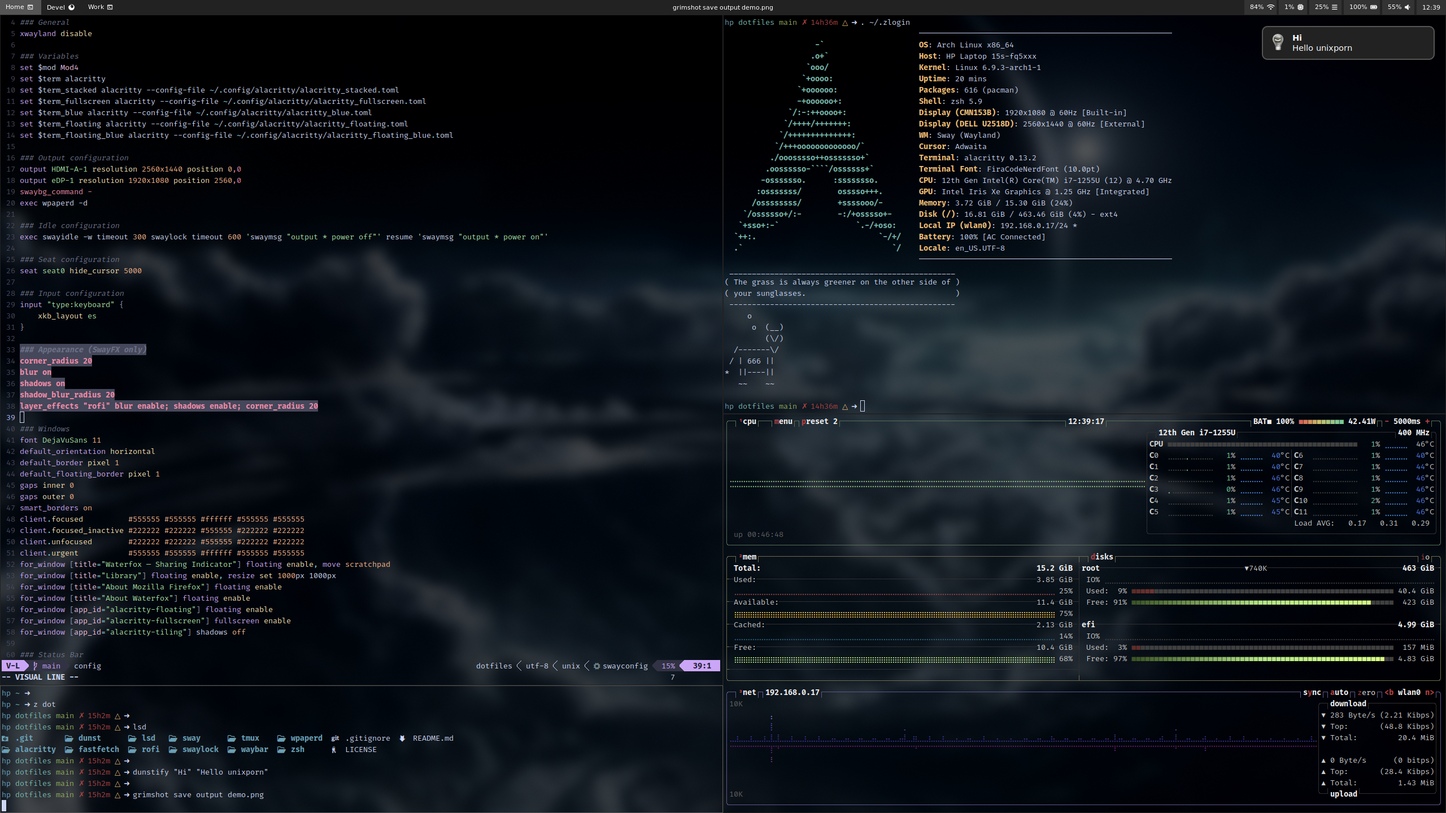
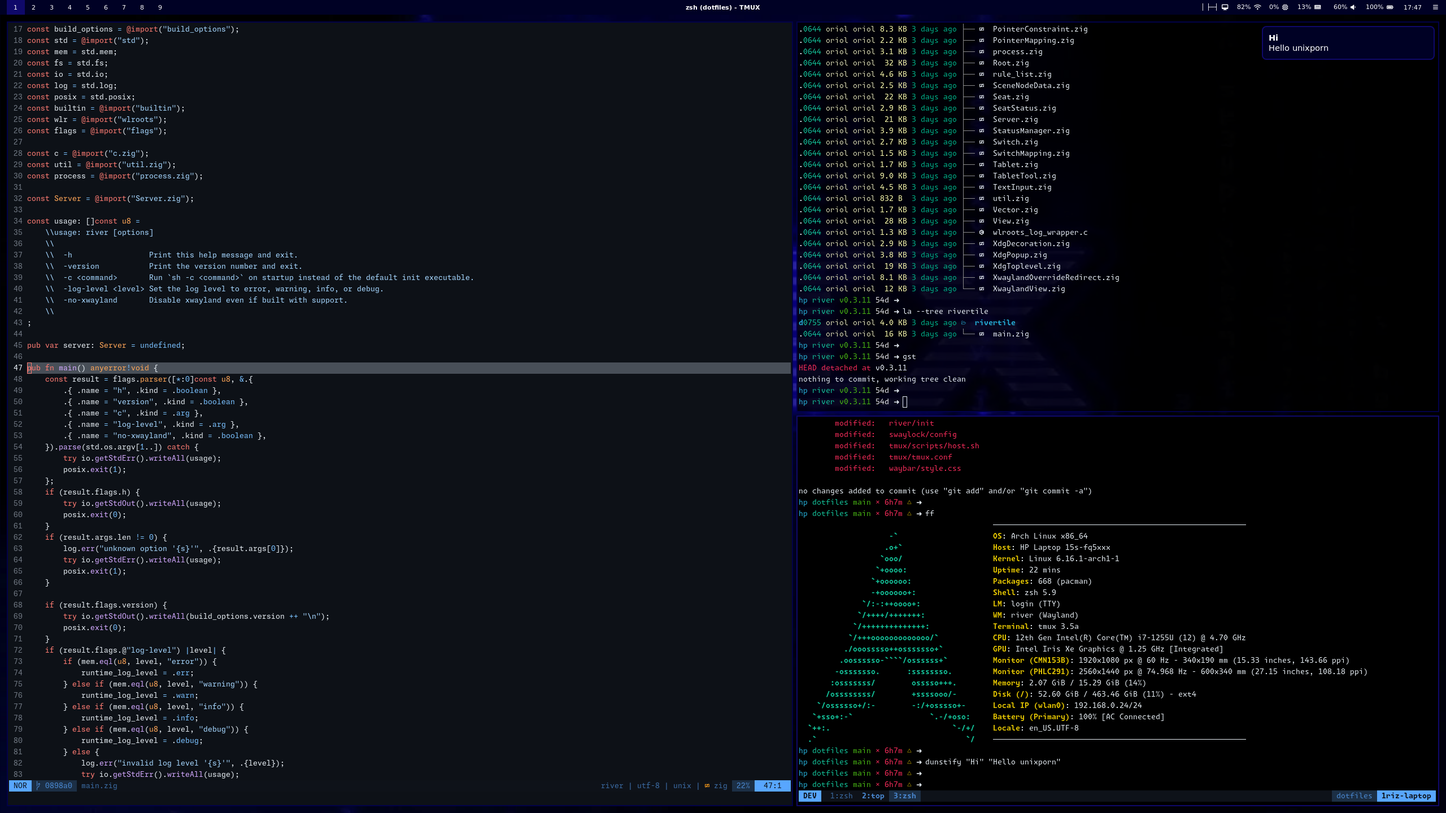
Add "unix-blue-digital" theme

diff --git a/waybar/style.css b/waybar/style.css
@@ -1,10 +1,10 @@
 * {
-    font-family: FontAwesome, DejaVuSans, sans-serif;
+    font-family: DejaVuSans, FiraCodeNerdFont;
     font-size: 11px;
 }
 
 window#waybar {
-    background-color: #09142b;
+    background-color: #000125;
     color: #ffffff;
 }
 
@@ -33,11 +33,11 @@ window#waybar {
 }
 
 #tags button.urgent {
-    background-color: #182741;
+    background-color: #4039aa;
 }
 
 #tags button.focused {
-    background-color: #2c3952;
+    background-color: #0f096a;
 }
 
 #window.focused {
@@ -66,10 +66,10 @@ window#waybar {
 #battery:hover,
 #pulseaudio:hover,
 #clock:hover {
-    background-color: #2c3952;
+    background-color: #292199;
 }
 
 #battery.critical:not(.charging),
 #network.disconnected {
-    background-color: #2c3952;
+    background-color: #4039aa;
 }

diff --git a/README.md b/README.md
@@ -41,8 +41,11 @@ My personal dotfiles.
 ## Fonts
 
 - [monaspace](https://github.com/githubnext/monaspace)
-- [firacode-nerd](https://github.com/ryanoasis/nerd-fonts/tree/master/patched-fonts/FiraCode)
-- [noto-fonts-emoji](https://fonts.google.com/noto/specimen/Noto+Color+Emoji)
+- [firacode-nerd](https://github.com/ryanoasis/nerd-fonts)
+
+## Wallpaper
+
+- [unix-blue-digital](https://wallpapers.com/wallpapers/unix-blue-digital-logo-kxb7r2sx50zqdi6a.html)
 
 ## Screenshots
 
